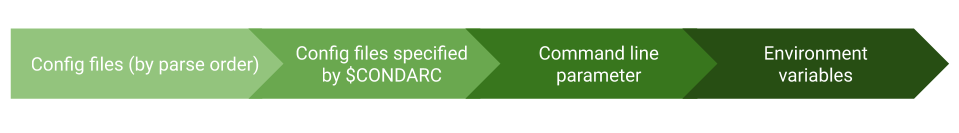
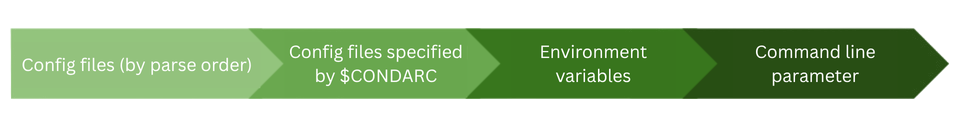
Update precedence docs

diff --git a/docs/source/user-guide/configuration/use-condarc.rst b/docs/source/user-guide/configuration/use-condarc.rst
@@ -162,7 +162,8 @@ The precedence by which the conda configuration is built out is shown below.
 Each new arrow takes precedence over the ones before it. For example, config
 files (by parse order) will be superseded by any of the other configuration
 options. Configuration environment variables (formatted like ``CONDA_<CONFIG NAME>``)
-will always take precedence over the other 3.
+will always take precedence over all config files. And command line parameters
+have the highest precedence.
 
 .. figure:: /img/config-precedence.png
 
